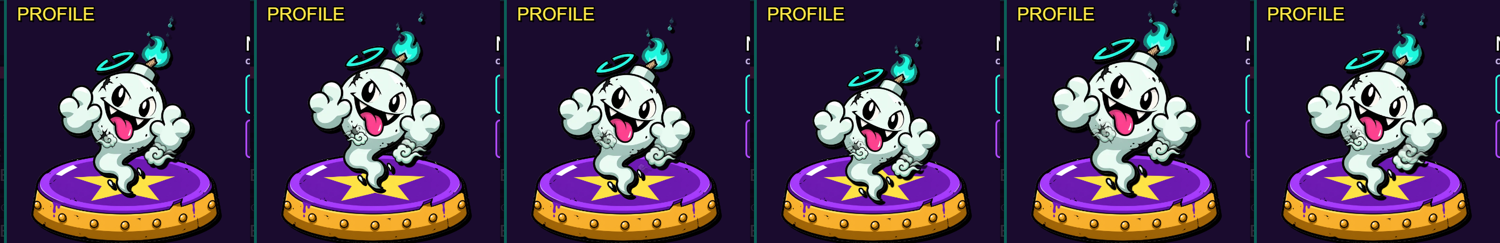
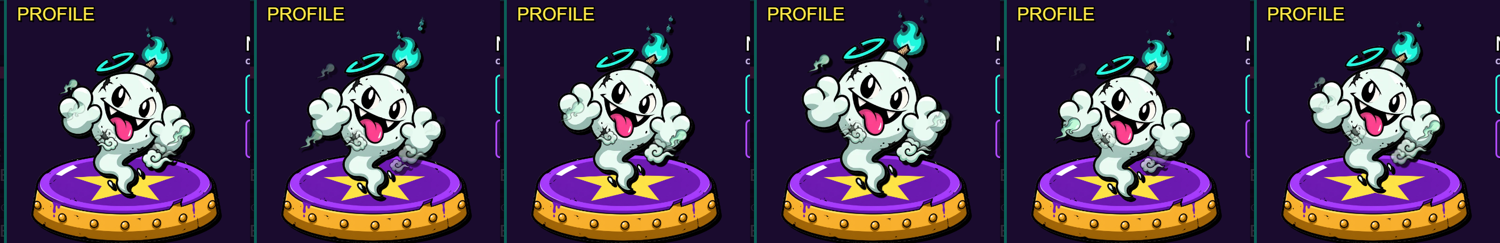
feat: tier rings on your in-game seat + gold glint / ghost-trail auras (round 2 art)

diff --git a/src/cast/CastArt.jsx b/src/cast/CastArt.jsx
@@ -81,7 +81,7 @@ function Gum({ box, live }) {
 // Still the house motion law: finite WAAPI one-shots (kitPlay) re-armed on finish — nothing infinite — transform +
 // opacity only, will-change only while a clone plays, pooled nodes (no node per cycle), the loop sleeps in a hidden tab,
 // reduce motion = nothing plays. RARITY scales the pool (more overlapping clones = denser, richer motion): crew x1,
-// GOLD x1.35, ELITE x1.5, LEGEND x2, and GOLD / ELITE also get a twinkle of glints around the body (AURA).
+// GOLD x1.35, ELITE x1.5, LEGEND x2, and every rare tier also wears an AURA (gold glints / ghost trails, below).
 // A stream: { i: sprite, n: clones at x1, ms: one clone's life, f: keyframes, e?: easing, at?: first-start offset ms }.
 const UP = (x, y, s0 = 0.5, s1 = 1) => [
   { transform: `translate(0, 0) scale(${s0})`, opacity: 0 },
@@ -188,16 +188,36 @@ const STREAMS = {
     { i: 2, n: 1, ms: 2600, at: 1900, e: 'linear', f: [{ transform: 'translateX(-4%)', opacity: 1 }, { transform: 'translateX(3%)', opacity: 1, offset: 0.05 }, { transform: 'translateX(0)', opacity: 0, offset: 0.1 }, { transform: 'translateX(0)', opacity: 0 }] },
   ],
 };
-// AURA: the GOLD / ELITE twinkle — glints pop at fixed spots around the body one after another, never all at once
-const AURA_SPOTS = [[14, 30], [74, 20], [70, 62], [22, 66], [48, 8]];
-const AURA = { src: '/cast/props/spark-sm.webp', w: 7, ms: 1700 };
-/** How much richer a hero's motion is: its pool multiplier and whether it gets the glint aura. */
+// AURA: what a rare tier wears around the body, always moving, one piece after another (never all at once) — GOLD
+// twinkles gold glints and glint clusters, ELITE gold glints, LEGEND trails ghost-smoke comets rising past it. The art is
+// painted (public/cast/props, oct18 round 2); the spots are % of the pose square.
+const TRAIL = [ // the comet's head is painted bottom-left: turned half round it leads up-right, rising past the body
+  { transform: 'translate(0, 0) rotate(180deg) scale(.6)', opacity: 0 },
+  { transform: 'translate(10%, -25%) rotate(180deg) scale(1)', opacity: 0.95, offset: 0.25 },
+  { transform: 'translate(35%, -90%) rotate(180deg) scale(1)', opacity: 0.8, offset: 0.7 },
+  { transform: 'translate(55%, -140%) rotate(180deg) scale(.85)', opacity: 0 },
+];
+const AURAS = {
+  gold: { ms: 1600, f: TWINKLE, e: 'ease-in-out', at: [
+    ['/cast/props/glint-gold.webp', 12, 28, 9], ['/cast/props/glint-gold-cluster.webp', 72, 16, 12], ['/cast/props/glint-gold.webp', 72, 60, 8],
+    ['/cast/props/glint-gold-cluster.webp', 16, 64, 11], ['/cast/props/glint-gold.webp', 46, 4, 8],
+  ] },
+  elite: { ms: 1700, f: TWINKLE, e: 'ease-in-out', at: [
+    ['/cast/props/glint-gold.webp', 12, 30, 8], ['/cast/props/glint-gold.webp', 76, 18, 9], ['/cast/props/glint-gold.webp', 72, 62, 7],
+    ['/cast/props/glint-gold.webp', 20, 66, 8], ['/cast/props/glint-gold.webp', 48, 6, 7],
+  ] },
+  legend: { ms: 2600, f: TRAIL, e: 'cubic-bezier(.3,.5,.5,1)', at: [
+    ['/cast/props/ghost-trail.webp', 4, 58, 16], ['/cast/props/ghost-trail.webp', 70, 64, 14], ['/cast/props/ghost-trail.webp', 10, 30, 12],
+  ] },
+};
+/** How much richer a hero's motion is: its pool multiplier, and its tier ('gold' | 'elite' | 'legend' | null) — the
+ *  tier picks the AURA here and the seat ring in game (GameScreen). */
 export function rarityOf(h) {
-  if (!h) return { k: 1, aura: false };
-  if (h.legend) return { k: 2, aura: false };
-  if (h.elite) return { k: 1.5, aura: true };
-  if (h.gold) return { k: 1.35, aura: true };
-  return { k: 1, aura: false };
+  if (!h) return { k: 1, tier: null };
+  if (h.legend) return { k: 2, tier: 'legend' };
+  if (h.elite) return { k: 1.5, tier: 'elite' };
+  if (h.gold) return { k: 1.35, tier: 'gold' };
+  return { k: 1, tier: null };
 }
 
 /** Run one pooled clone: play, and on finish play again — each a finite one-shot. Returns its stop. */
@@ -242,17 +262,19 @@ function Streams({ act, sprites, rarity, live }) {
   });
 }
 
-function Aura({ live }) {
+function Aura({ tier, live }) {
   const refs = useRef([]);
+  const A = AURAS[tier];
   useEffect(() => {
-    if (!live) return undefined;
+    if (!live || !A) return undefined;
     const alive = { on: true };
     const els = refs.current;
-    const stops = AURA_SPOTS.map((_, k) => loopClone(els[k], TWINKLE, AURA.ms, 'ease-in-out', 200 + (k * AURA.ms) / AURA_SPOTS.length, alive));
+    const stops = A.at.map((_, k) => loopClone(els[k], A.f, A.ms, A.e, 200 + (k * A.ms) / A.at.length, alive));
     return () => { alive.on = false; stops.forEach((f) => f()); stopAll(els); };
-  }, [live]);
-  return AURA_SPOTS.map(([x, y], k) => (
-    <img key={k} ref={(el) => { refs.current[k] = el; }} className="cast-fx" src={AURA.src} alt="" draggable="false" style={{ left: `${x}%`, top: `${y}%`, width: `${AURA.w}%` }} />
+  }, [live, tier]); // eslint-disable-line react-hooks/exhaustive-deps
+  if (!A) return null;
+  return A.at.map(([src, x, y, w], k) => (
+    <img key={k} ref={(el) => { refs.current[k] = el; }} className="cast-fx" src={src} alt="" draggable="false" style={{ left: `${x}%`, top: `${y}%`, width: `${w}%` }} />
   ));
 }
 
@@ -267,7 +289,7 @@ function Slot({ sp }) {
 /** `live` = run the prop streams (the big showcase / podium / in-game seat); false = the static resting look (thumbnails). */
 export default function CastArt({ id, pose = 'hero', className = '', artRef, alt = '', live = true, ...rest }) {
   const rarity = rarityOf(heroById(id));
-  const L = castLayers(id, pose) || (rarity.aura ? {} : null);
+  const L = castLayers(id, pose) || (rarity.tier ? {} : null);
   if (!L) return <img ref={artRef} className={className} src={castSrc(id, pose)} width="512" height="512" alt={alt} draggable="false" {...rest} />;
   const slots = flagDefaultOn('props') ? L.slots || [] : [];
   return (
@@ -277,7 +299,7 @@ export default function CastArt({ id, pose = 'hero', className = '', artRef, alt
       {slots.filter((sp) => !sp.under).map((sp) => <Slot key={sp.slot} sp={sp} />)}
       {L.gum ? <Gum box={L.gum} live={live} /> : null}
       {L.act ? <Streams act={L.act} sprites={L.sprites} rarity={rarity} live={live} /> : null}
-      {rarity.aura ? <Aura live={live} /> : null}
+      {rarity.tier ? <Aura tier={rarity.tier} live={live} /> : null}
     </span>
   );
 }

diff --git a/src/components/GameScreen.jsx b/src/components/GameScreen.jsx
@@ -7,8 +7,8 @@ import PlayerDot from './PlayerDot';
 import ComboMeter from './ComboMeter';
 import SprayReveal from './SprayReveal';
 import { resolvePlayerColor } from '../playerColors';
-import { castByColor, castSrc, readMain } from '../cast/cast.js';
-import CastArt from '../cast/CastArt.jsx';
+import { castByColor, castSrc, readMain, heroById } from '../cast/cast.js';
+import CastArt, { rarityOf } from '../cast/CastArt.jsx';
 import { MORE_MODES } from '../gameData';
 import { soloHeadlineScore } from '../soloScore';
 import { exampleFor } from '../categoryExamples';
@@ -1536,6 +1536,7 @@ export default function GameScreen({
   // YOUR seat shows YOUR equipped hero (oct18, Andy: cosmetics should show "in game as well so people get the full
   // addictive use"): read once per game; the other seats keep the cast member of their colour.
   const myHero = useMemo(() => readMain(), []);
+  const myTier = useMemo(() => rarityOf(heroById(myHero)).tier, [myHero]); // gold / elite / legend → its painted seat ring
   usePlayClock(); // TIME PLAYED on the profile (visible time on a game screen only)
   const draftStoreRef = useRef(null);
   if (!draftStoreRef.current) draftStoreRef.current = createDraftStore();
@@ -3461,6 +3462,7 @@ export default function GameScreen({
                   {/* oct16 art run: the painted CAST member of this seat's colour (RIOT pink · GLITCH cyan · HYPE yellow ·
                       BRAWL orange · HEX purple); falls back to the bomb buddy until its HERO is painted */}
                   {/* oct18: YOUR seat is your equipped hero, its prop streams + rarity aura playing live on your turn */}
+                  {isMe && myTier ? <img className="wb-seat-char wb-seat-ring" src={`/cast/rings/seat-ring-${myTier}.webp`} alt="" aria-hidden="true" draggable="false" /> : null}
                   {isMe
                     ? <CastArt className="wb-seat-char" id={myHero} live={isCurrent && !eliminated} />
                     : <img className="wb-seat-char" src={castSrc(castByColor(pc.color).id, 'hero')} alt="" aria-hidden="true" draggable="false" />}

diff --git a/src/components/GameScreen.css b/src/components/GameScreen.css
@@ -6932,6 +6932,9 @@ html[data-beat='true'] .wb-belly {
 }
 /* your own seat draws your equipped hero through CastArt (a layered span): keep it placed like the plain image */
 .wb-seat-char.cast-layered { position: absolute; }
+/* a rare hero's painted tier RING (GOLD / ELITE / LEGEND — public/cast/rings, oct18) sits behind your hero, sized and
+   placed by the same .wb-seat-char box (so it hops with it on your turn); its crown / crystal / wisps poke above */
+.wb-seat-ring { z-index: -2; }
 .wb-seat .game-player-card.current .wb-seat-char {
   opacity: 1;
   animation: wb-char-hop 380ms cubic-bezier(0.2, 1.4, 0.4, 1) 1;
